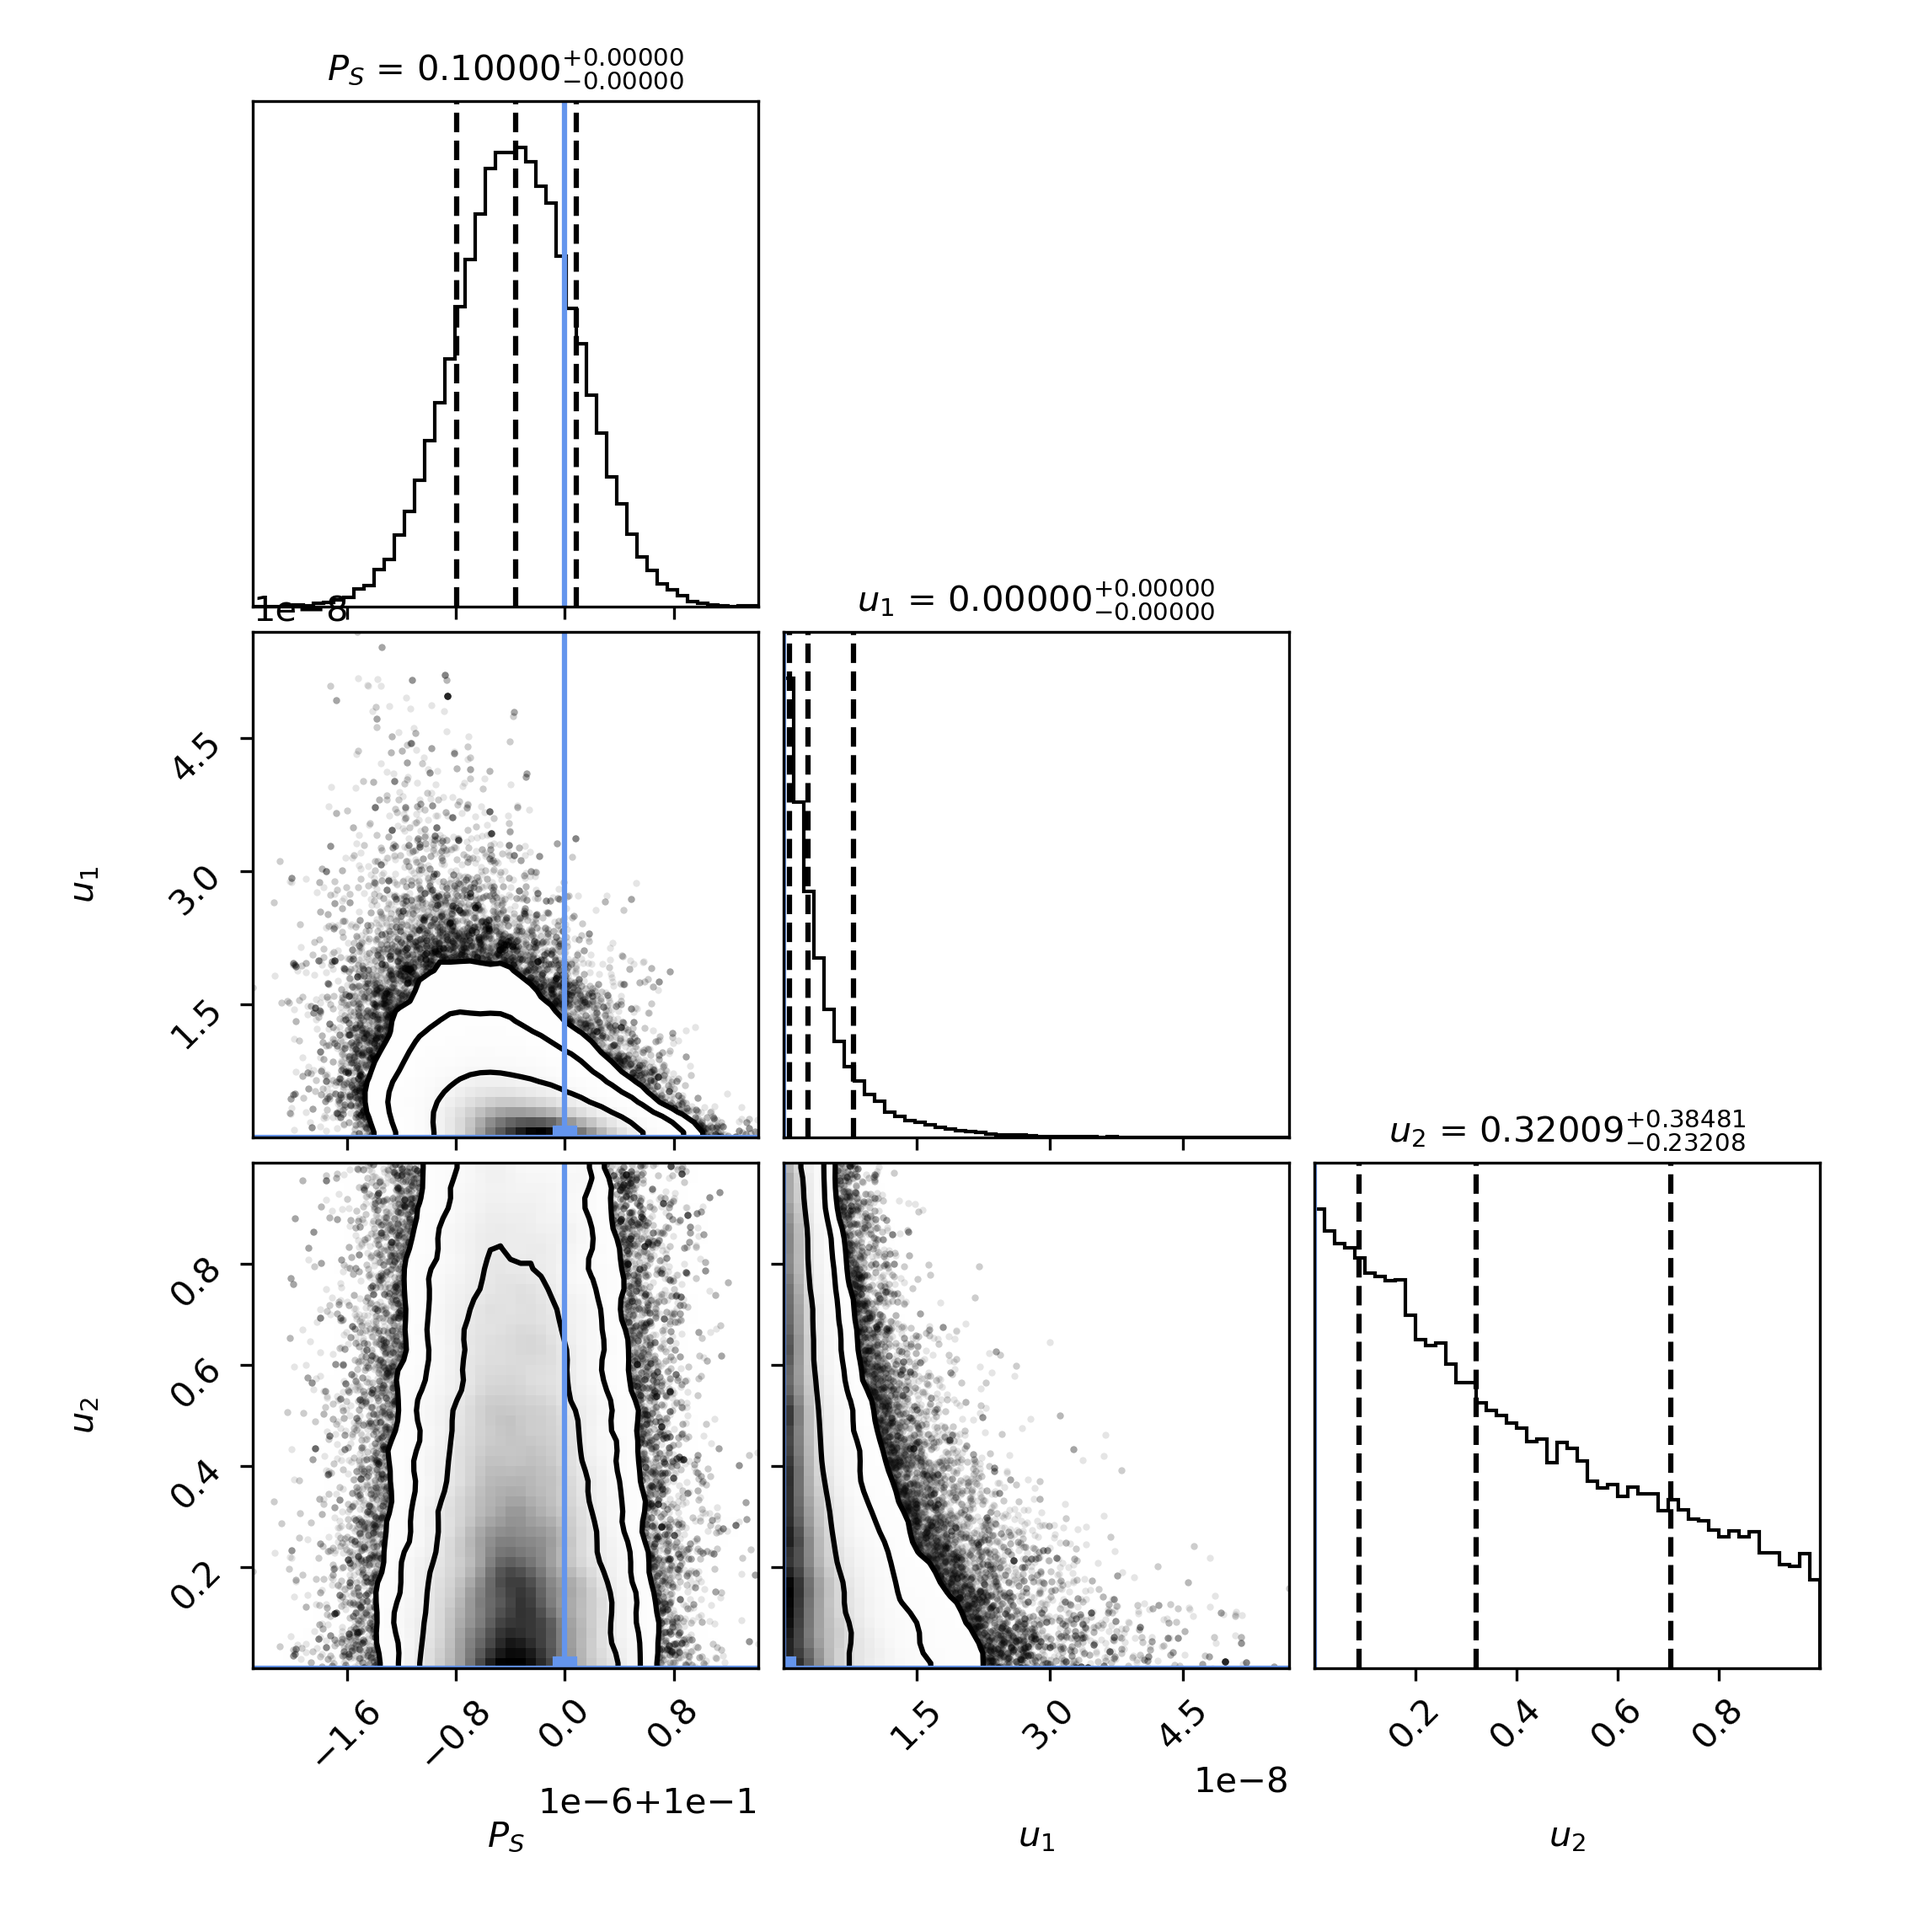
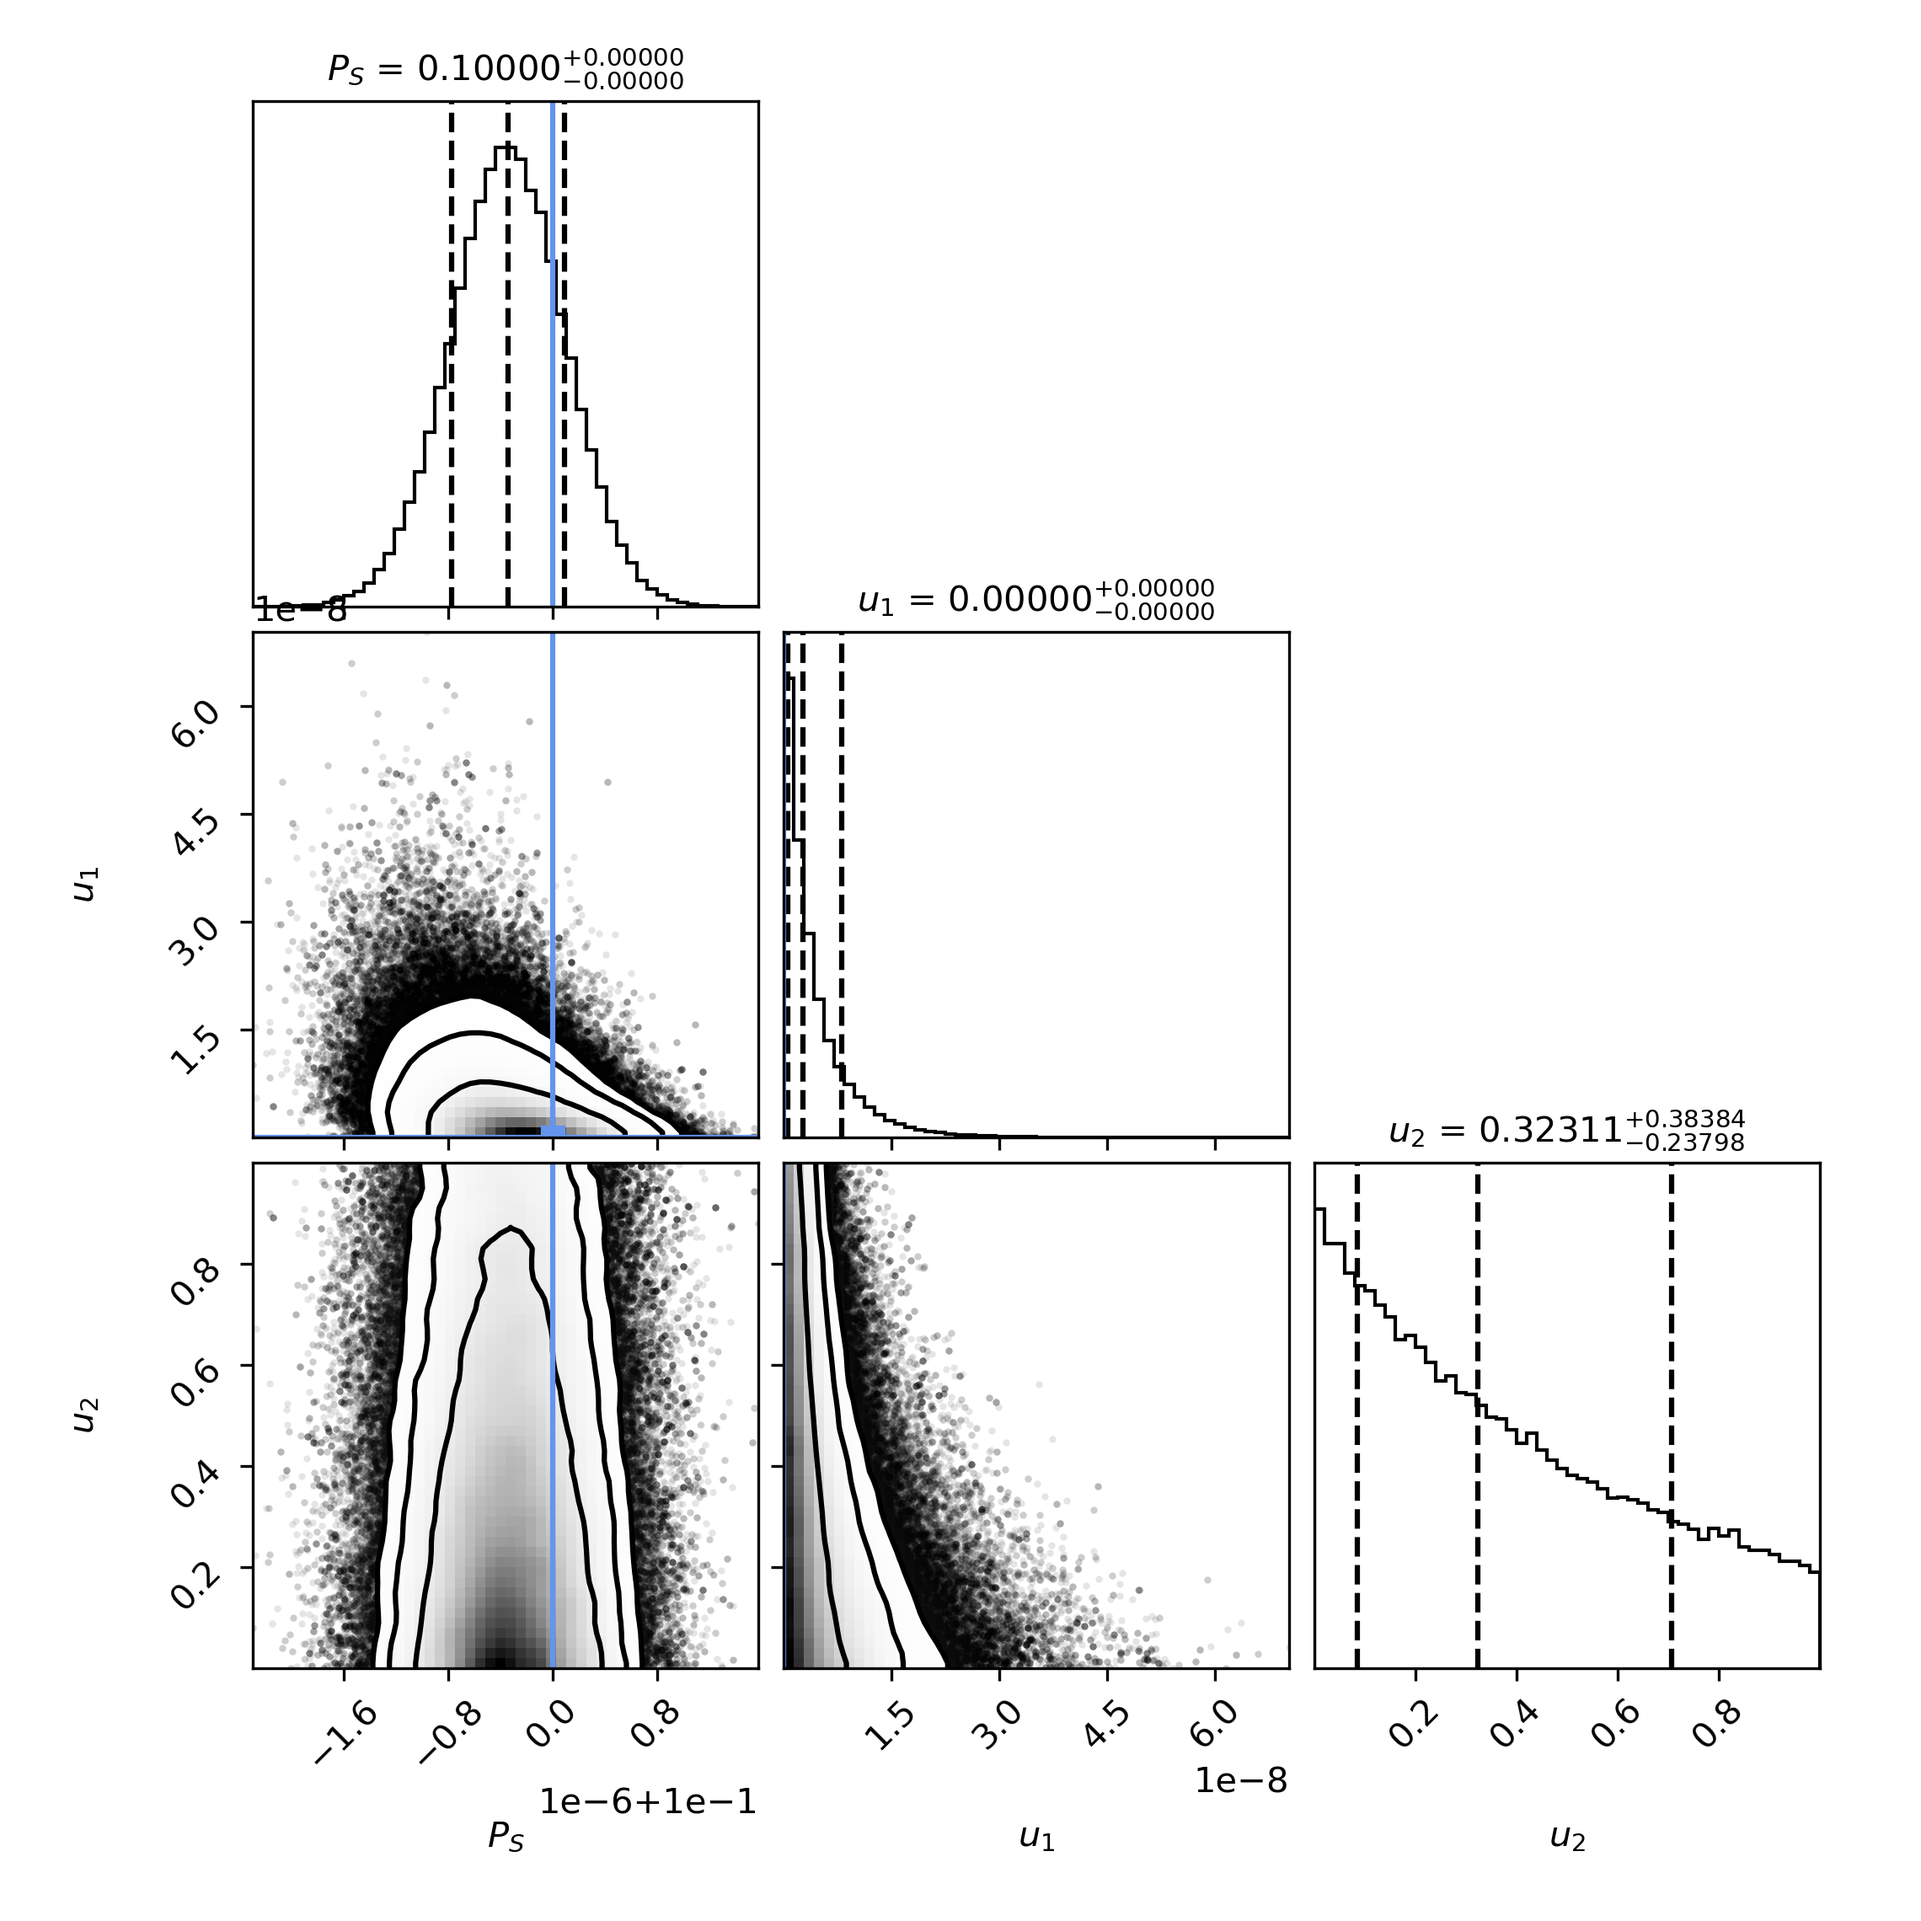
changed to mcmc parameters from the paper, warning: this now takes a while to compute (5 mins for me)

diff --git a/analysis.py b/analysis.py
@@ -85,16 +85,6 @@ if not os.path.exists(light_curve_plot_name):
 
 #%%
 
-# For the remainder, we choose the 1000 ppm error envelope to be the error data
-# TODO change code below to allow to do MCMC for all 4 error cases
-
-error_data = all_errors_dict['1000 ppm']
-# error_data = all_errors_dict['100 ppm']
-# error_data = all_errors_dict['10 ppm']
-# error_data = all_errors_dict['1 ppm']
-
-#%%
-
 ################################################################################
 ######################### FITTING DATA TO A MODEL ##############################
 ################################################################################
@@ -120,12 +110,15 @@ param_priors = {
 # TODO: just a working selection right now, could probably be improved
 mcmc_params = {
     'ndim'        :len(param_priors),
-    'nwalkers'    :32,
-    'nsteps'      :10000,
-    'burn_in_frac':0.4,
+    'nwalkers'    :4*len(param_priors),
+    'nsteps'      :100000,
+    'burn_in_frac':0.6,
 }
 
 #%%
+################################################################################
+######################### Run Quadratic Limb-Drkening ##########################
+################################################################################
 for key in all_errors_dict:
     # iterate through all available error envelopes for the default quadratic parameterization
     posterior_samples = run_mcmc(time_data, flux_data, all_errors_dict[key], model,
@@ -136,7 +129,11 @@ for key in all_errors_dict:
     create_corner_plot(posterior_samples, truths, all_errors_dict[key][0]*1e6, transform=False)
 
 #%%
+################################################################################
+######################### Run Kipping Limb-Drkening ############################
+################################################################################
 
+# update priors and ground truth to Kipping
 param_priors = {
     # TODO: adapt these depending on simdata
     'ps':        ['uni', 0., 0.5],      # stellar radii
@@ -149,6 +146,7 @@ truths = {
     # TODO: q2 is not actually well defined... need to calculate the limes of 0.5 * u1 / (u1 + u2) for u1 & u2 -> 0, i guess it's 0.25?
     # 
 }
+
 for key in all_errors_dict:
     # iterate through all available error envelopes for the kipping parameterization
     posterior_samples = run_mcmc(time_data, flux_data, all_errors_dict[key], model,
